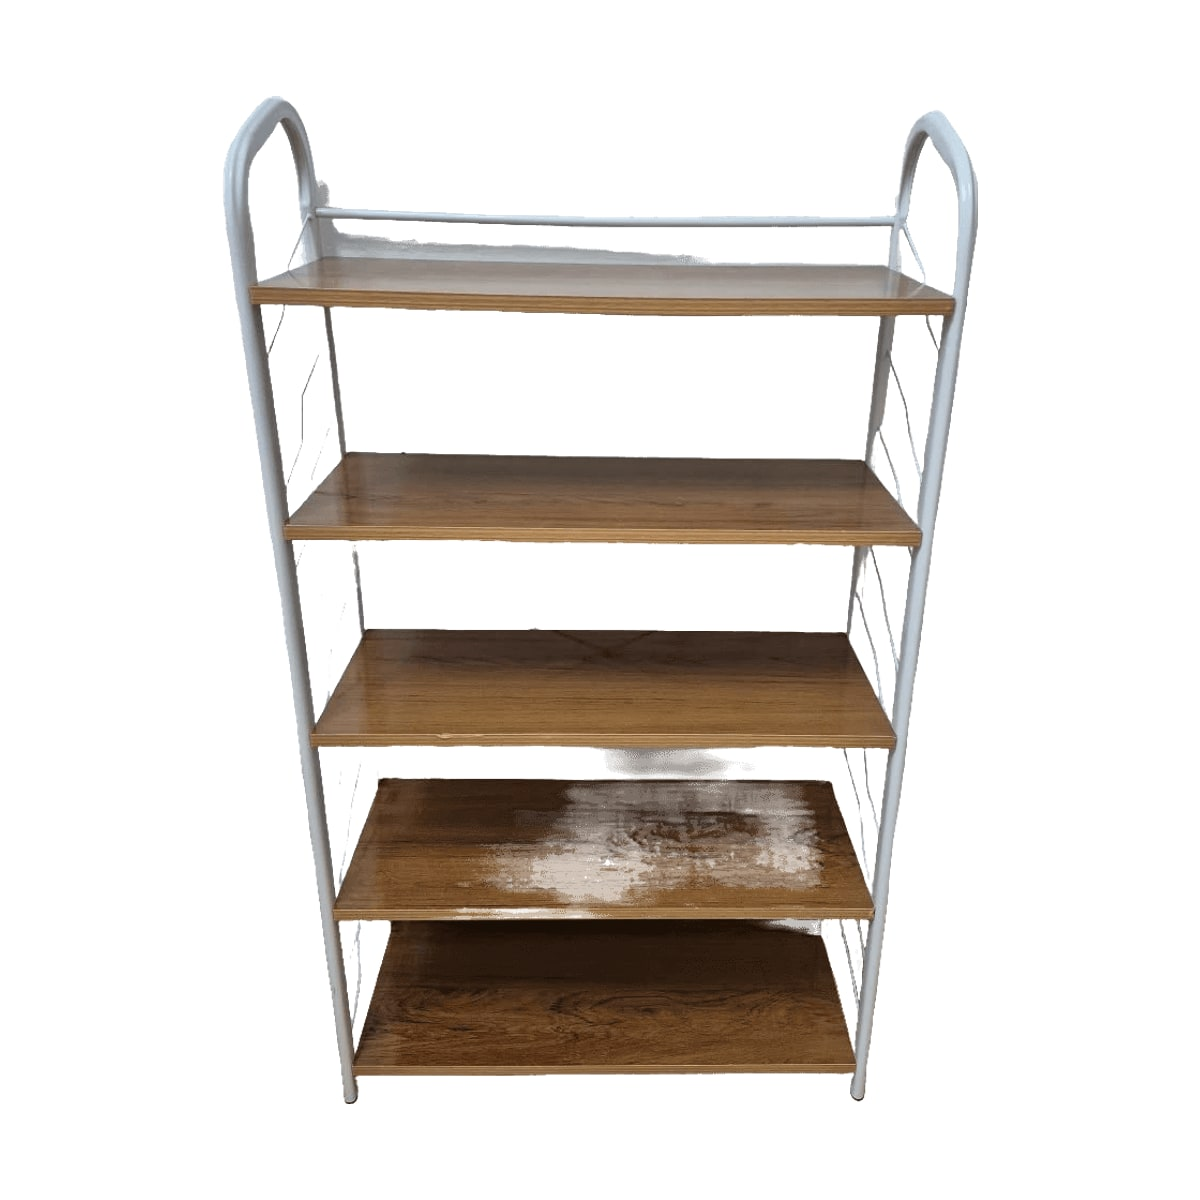
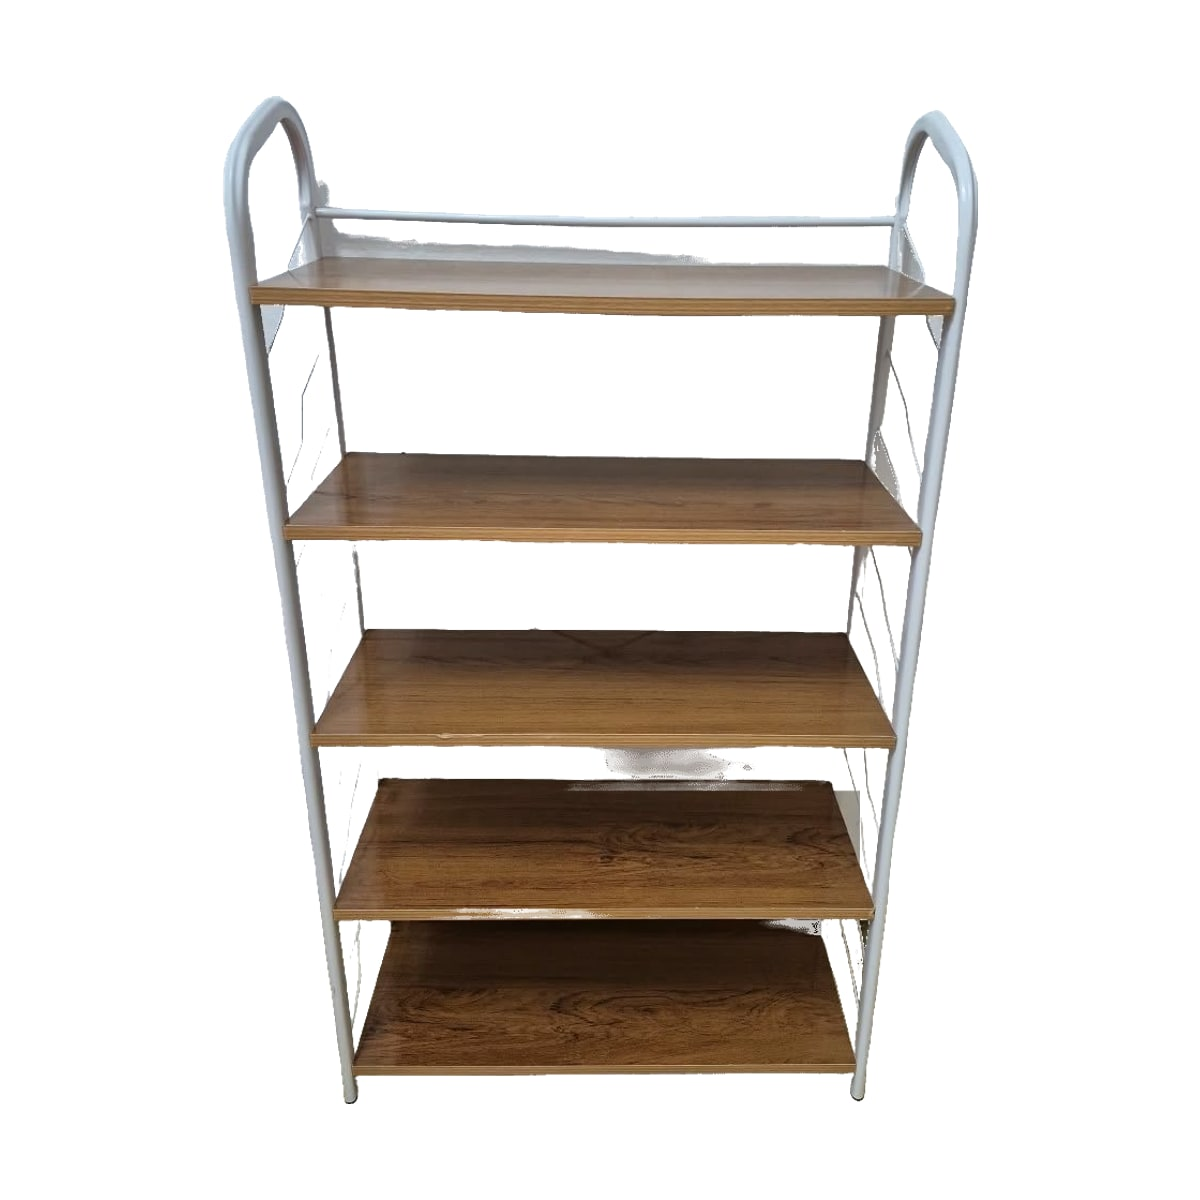
ESTADO: NEXO Busca pasa a L19 (L18 ya era lo de Lennys)

diff --git a/docs/00-FUENTE-DE-VERDAD/ESTADO.md b/docs/00-FUENTE-DE-VERDAD/ESTADO.md
@@ -1412,7 +1412,7 @@ Plan: (1) Core: endpoint del bot para publicar oferta / aceptar por teléfono de
 - Fuente: **OpenStreetMap/Overpass** (gratis). Plaza de la Revolución: 1.316 negocios, 27 % con teléfono; 167 con teléfono y sin web ni redes en 3 nichos. **Google Places no** (Cuba está en los "Territorios prohibidos" de Google Maps Platform, más OFAC/D14). Revolico y Cubísima no permiten copiar datos.
 - **Siguiente:** Ernesto aprueba la etapa 2 (boceto de tarjetas) y la versión 0: un script que saque 50 fichas de Plaza, una lista en CSV y 10 contactos al día a mano. Supabase y el bot, solo si sale al menos 1 demo en 2 semanas.
 
-### L18. Viernes 16-oct tarde — NEXO Busca EN VIVO (Core 3.14.28 + VivaBot `1412fb8`; agente de Claude)
+### L19. Viernes 16-oct tarde — NEXO Busca EN VIVO (Core 3.14.28 + VivaBot `1412fb8`; agente de Claude)
 - **Qué es:** área de gestoras → Herramientas → **NEXO Busca** (antes «Buscar precios»; primera de Herramientas, misma entrada). Foto o texto («o escribe qué buscas») → ofertas en Cuba → **«Usar esta»**: 1) Define tu precio (cantidad; sumar USD, % o precio final; mensajería CUP; «Cliente paga» y «Tú ganas» en USD y CUP con la tasa del día), 2) Preguntar al proveedor (`wa.me` con texto listo o «Abrir anuncio»), 3) Hacer foto bonita (lleva la foto al estudio y vuelve), 4) Mandar a mi cliente (sin decir dónde se compra; copiar y compartir, con la foto si el móvil deja), 5) **Vender por Casa Viva (bajo pedido)** → solicitud. Tope 20 búsquedas/día (`cvd_busca_daily_limit`).
 - **Solicitudes:** tablas `wp_cvd_busca_busquedas` (cada búsqueda con foto, ofertas y la elegida), `wp_cvd_busca_pedidos` (pendiente / confirmada / no_hay) y `wp_cvd_busca_avisos`. Nunca se confirma sola: aviso a Lennys (`cvd_busca_admin_phones`, si no existe la de pagos) con enlace firmado `?cvd_busca=ID&t=…` (7 días) para **Confirmar** (precio final + **comisión, que decide Lennys**) o **No hay**; al decidir, aviso a la gestora. La gestora lo ve en «Mis solicitudes».
 - **Bot:** `src/avisos-busca.js` (gemelo de avisos-pago), `GET /bot/busca-avisos`. Interruptor `crm_settings avisos_busca` = **prueba** (todo va a Ernesto como vista previa). Para abrirlo: poner `si`. Commit `1412fb8` solo en el VPS (**sin push a GitHub**: allí no hay permiso).

diff --git a/docs/nexo-business/plan-2026-10-14-empezar-limpio.md b/docs/nexo-business/plan-2026-10-14-empezar-limpio.md
@@ -114,3 +114,22 @@ Lo pidió Ernesto el 13-oct a las 22:20: «pensar en todos los errores que comet
   - ¿crear un departamento de Juguetes?
 - Se movieron 18 productos. La lista para deshacer está en `docs/productos/departamentos-movidos-2026-10-13.csv`.
 - **Ojo:** el panel de la caja guarda una sola categoría por producto. Hay que cambiarla también allí; si no, al guardar desde el panel vuelve la vieja.
+
+## 7. Plan del día (8:45, después de leer los chats del 13-oct)
+
+**En marcha con agentes:** videos «Tu precio» y «Aprende» (al General cuando estén, con el sí de Ernesto); cancelar y editar pedidos desde Ventas y el panel; skill `guia-paso-a-paso-casa-viva`; tarea nocturna `catalogo-casa-viva-noche` (títulos SEO, descripciones, medidas, auditoría de la web).
+
+**Hoy, en orden:**
+1. Respuestas de la tienda (10:00): medidas EDSM → Rafael; colores del set de baño → Thaly; fotos de sábanas King y caja del estante → Dayana; colores de la sobrecama Lisa Full → Dayana.
+2. Errores que contaron las gestoras:
+   - Edredón Full: al elegir color sigue la foto gris (Rafael) → foto por color y «elegir color tocando su foto».
+   - «Mis pedidos» enseña la foto de anuncio, no la del color comprado (Dany).
+   - En la app, tras copiar el enlace no se puede volver atrás (Rafael).
+   - QR que no se lee (gestora de Boracos).
+   - Entrar con usuario y contraseña falla (Tania). Nana no ve Operaciones.
+3. Editar pedidos ya hechos: subir precio (Thaly), cambiar color (Oliuska). Lo cubre el agente de cancelar/editar.
+4. Lennys: en la web, explicar lo de elegir entre dos productos (se paga el retorno del que no se queda); la comisión en cada anuncio de producto nuevo; que el bot sepa lo de la tienda sin esperar a las 10.
+5. Gestoras: subir un % a todos sus precios de una vez; ver los dos precios (Rafael); pagar en CUP al recoger (Dany); mensajería a sitios lejos, Bauta y Mariel (Nadielys); invitar amiga con 2 % (Niurka); acumular comisiones (Yanet).
+6. Altas: Héctor (mensajero), Kamila y Fernando (gestoras).
+7. Inventario: hoja de los escondidos a Maryta o Nana (sí de Ernesto) y origen de cada producto.
+8. Ernesto decide: pedidos sin confirmar por WhatsApp, Hostinger y correos, escalaciones #35/#37/#39/#40, reel de la cama plegable, bienvenida.
